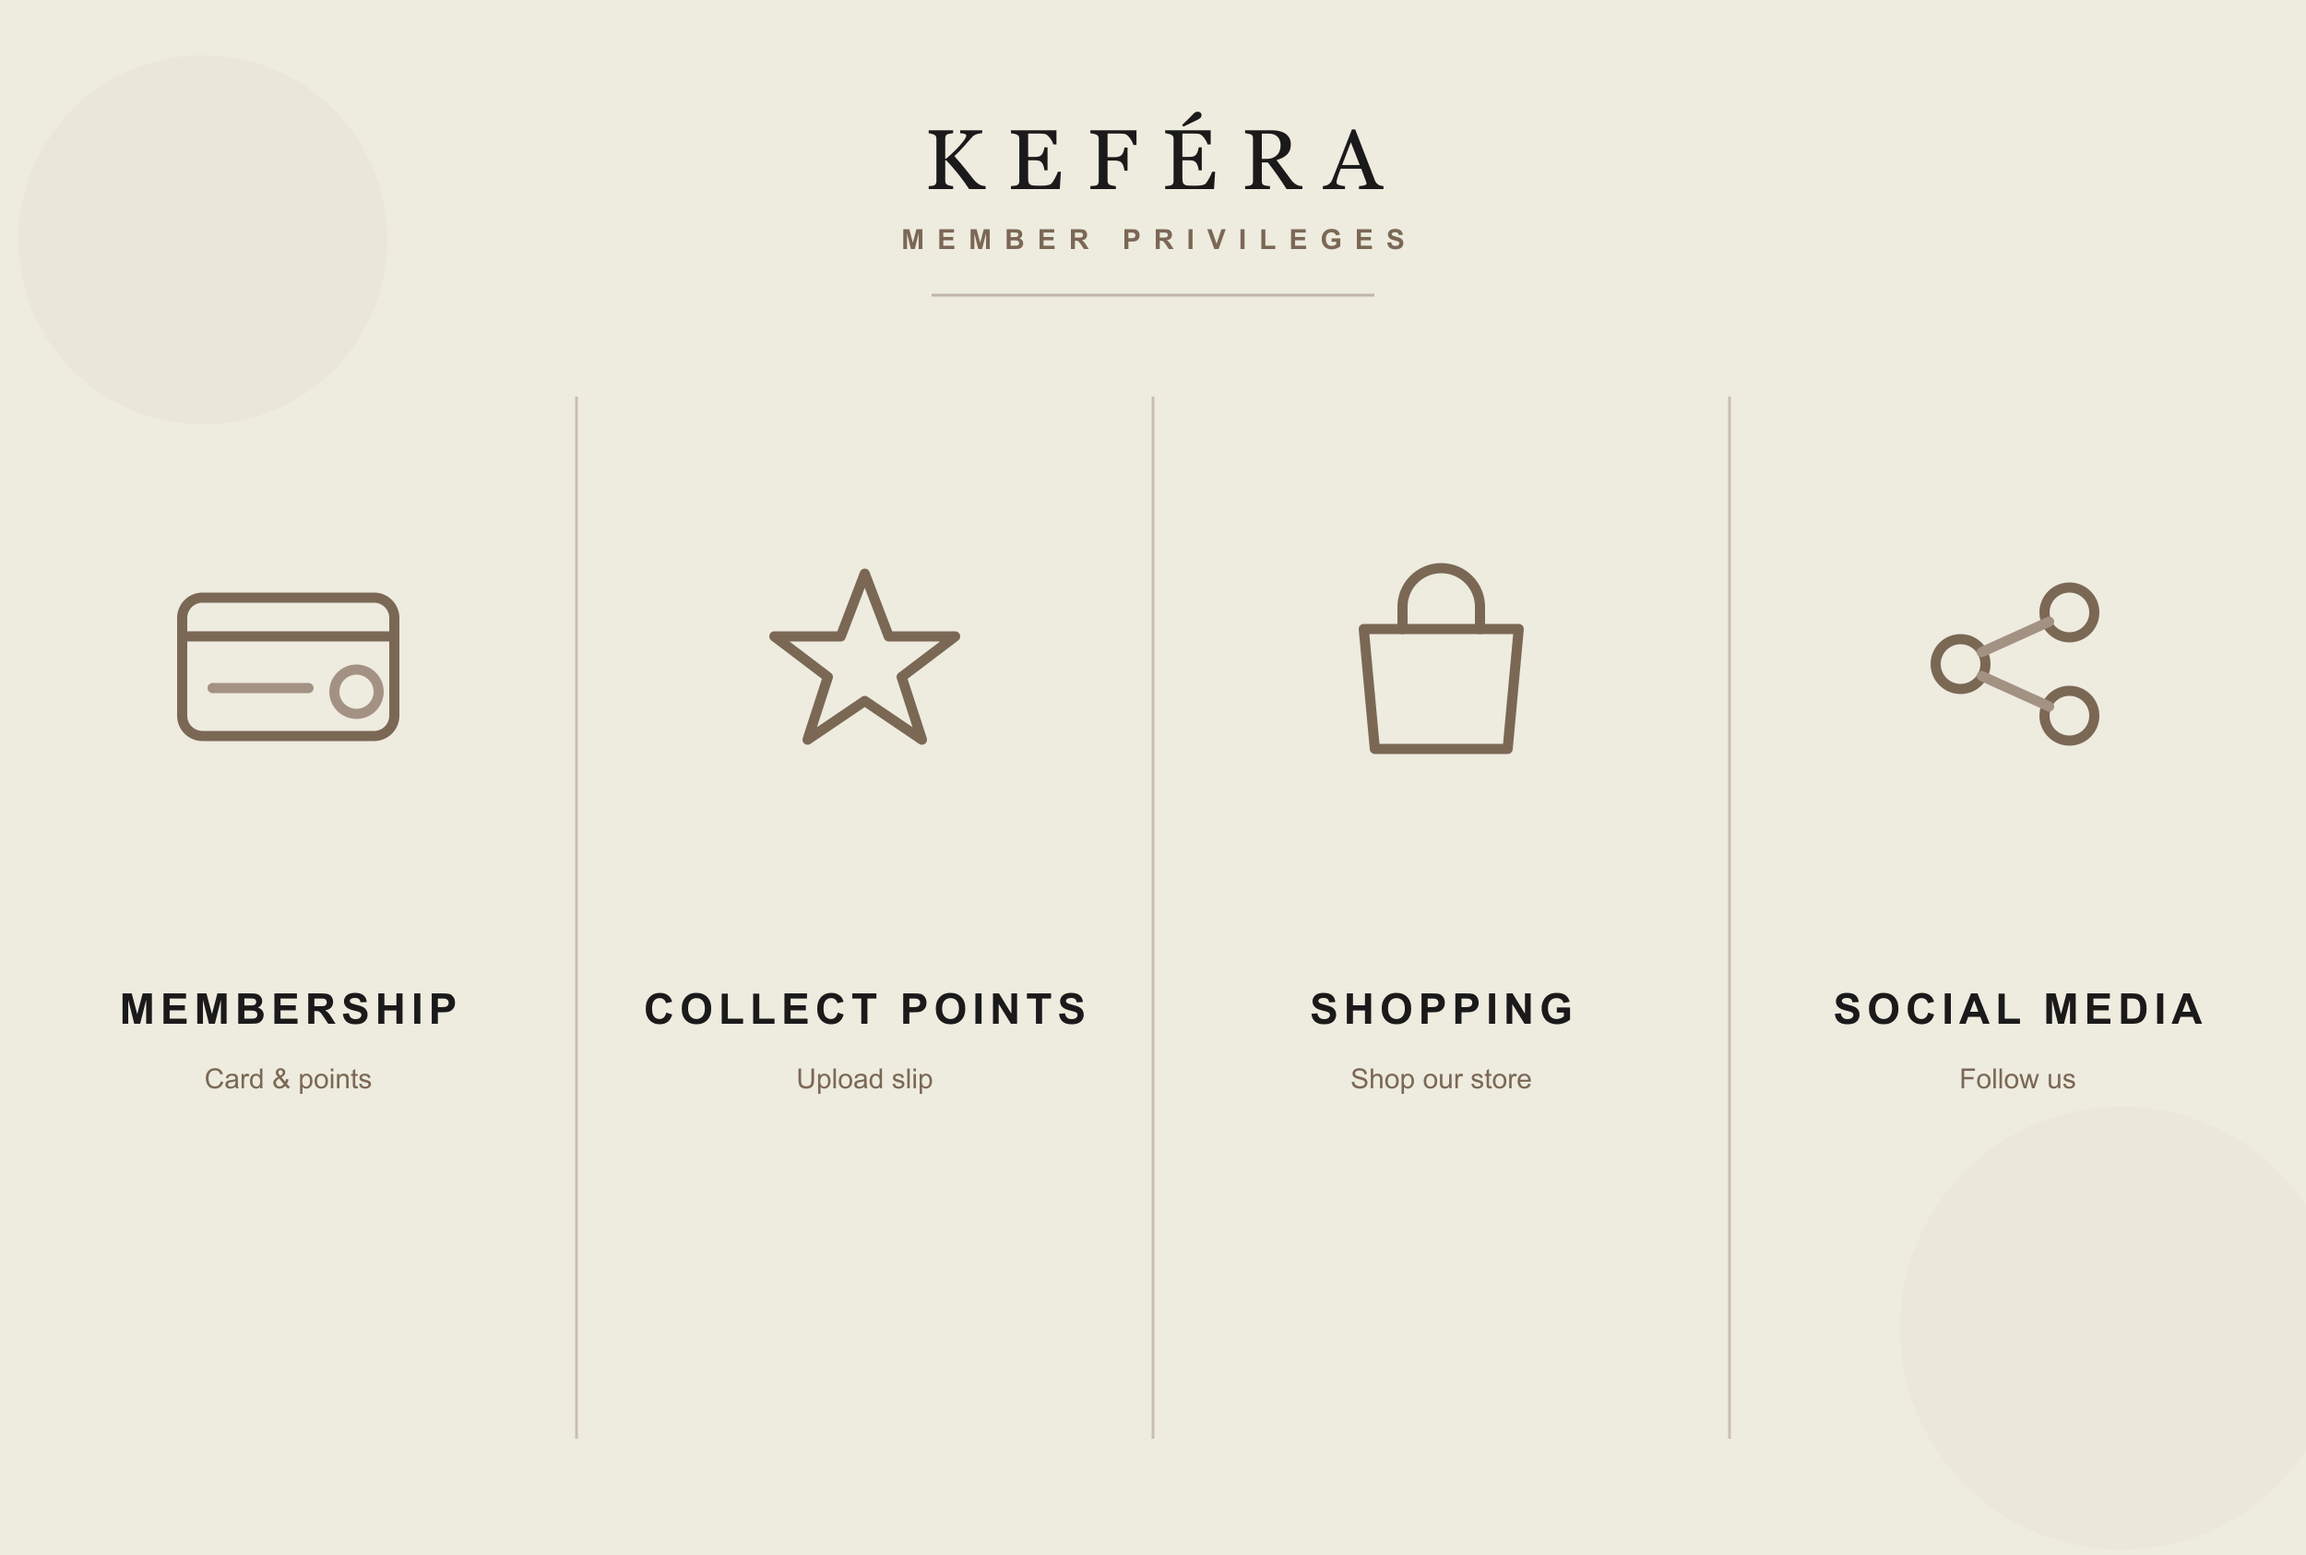
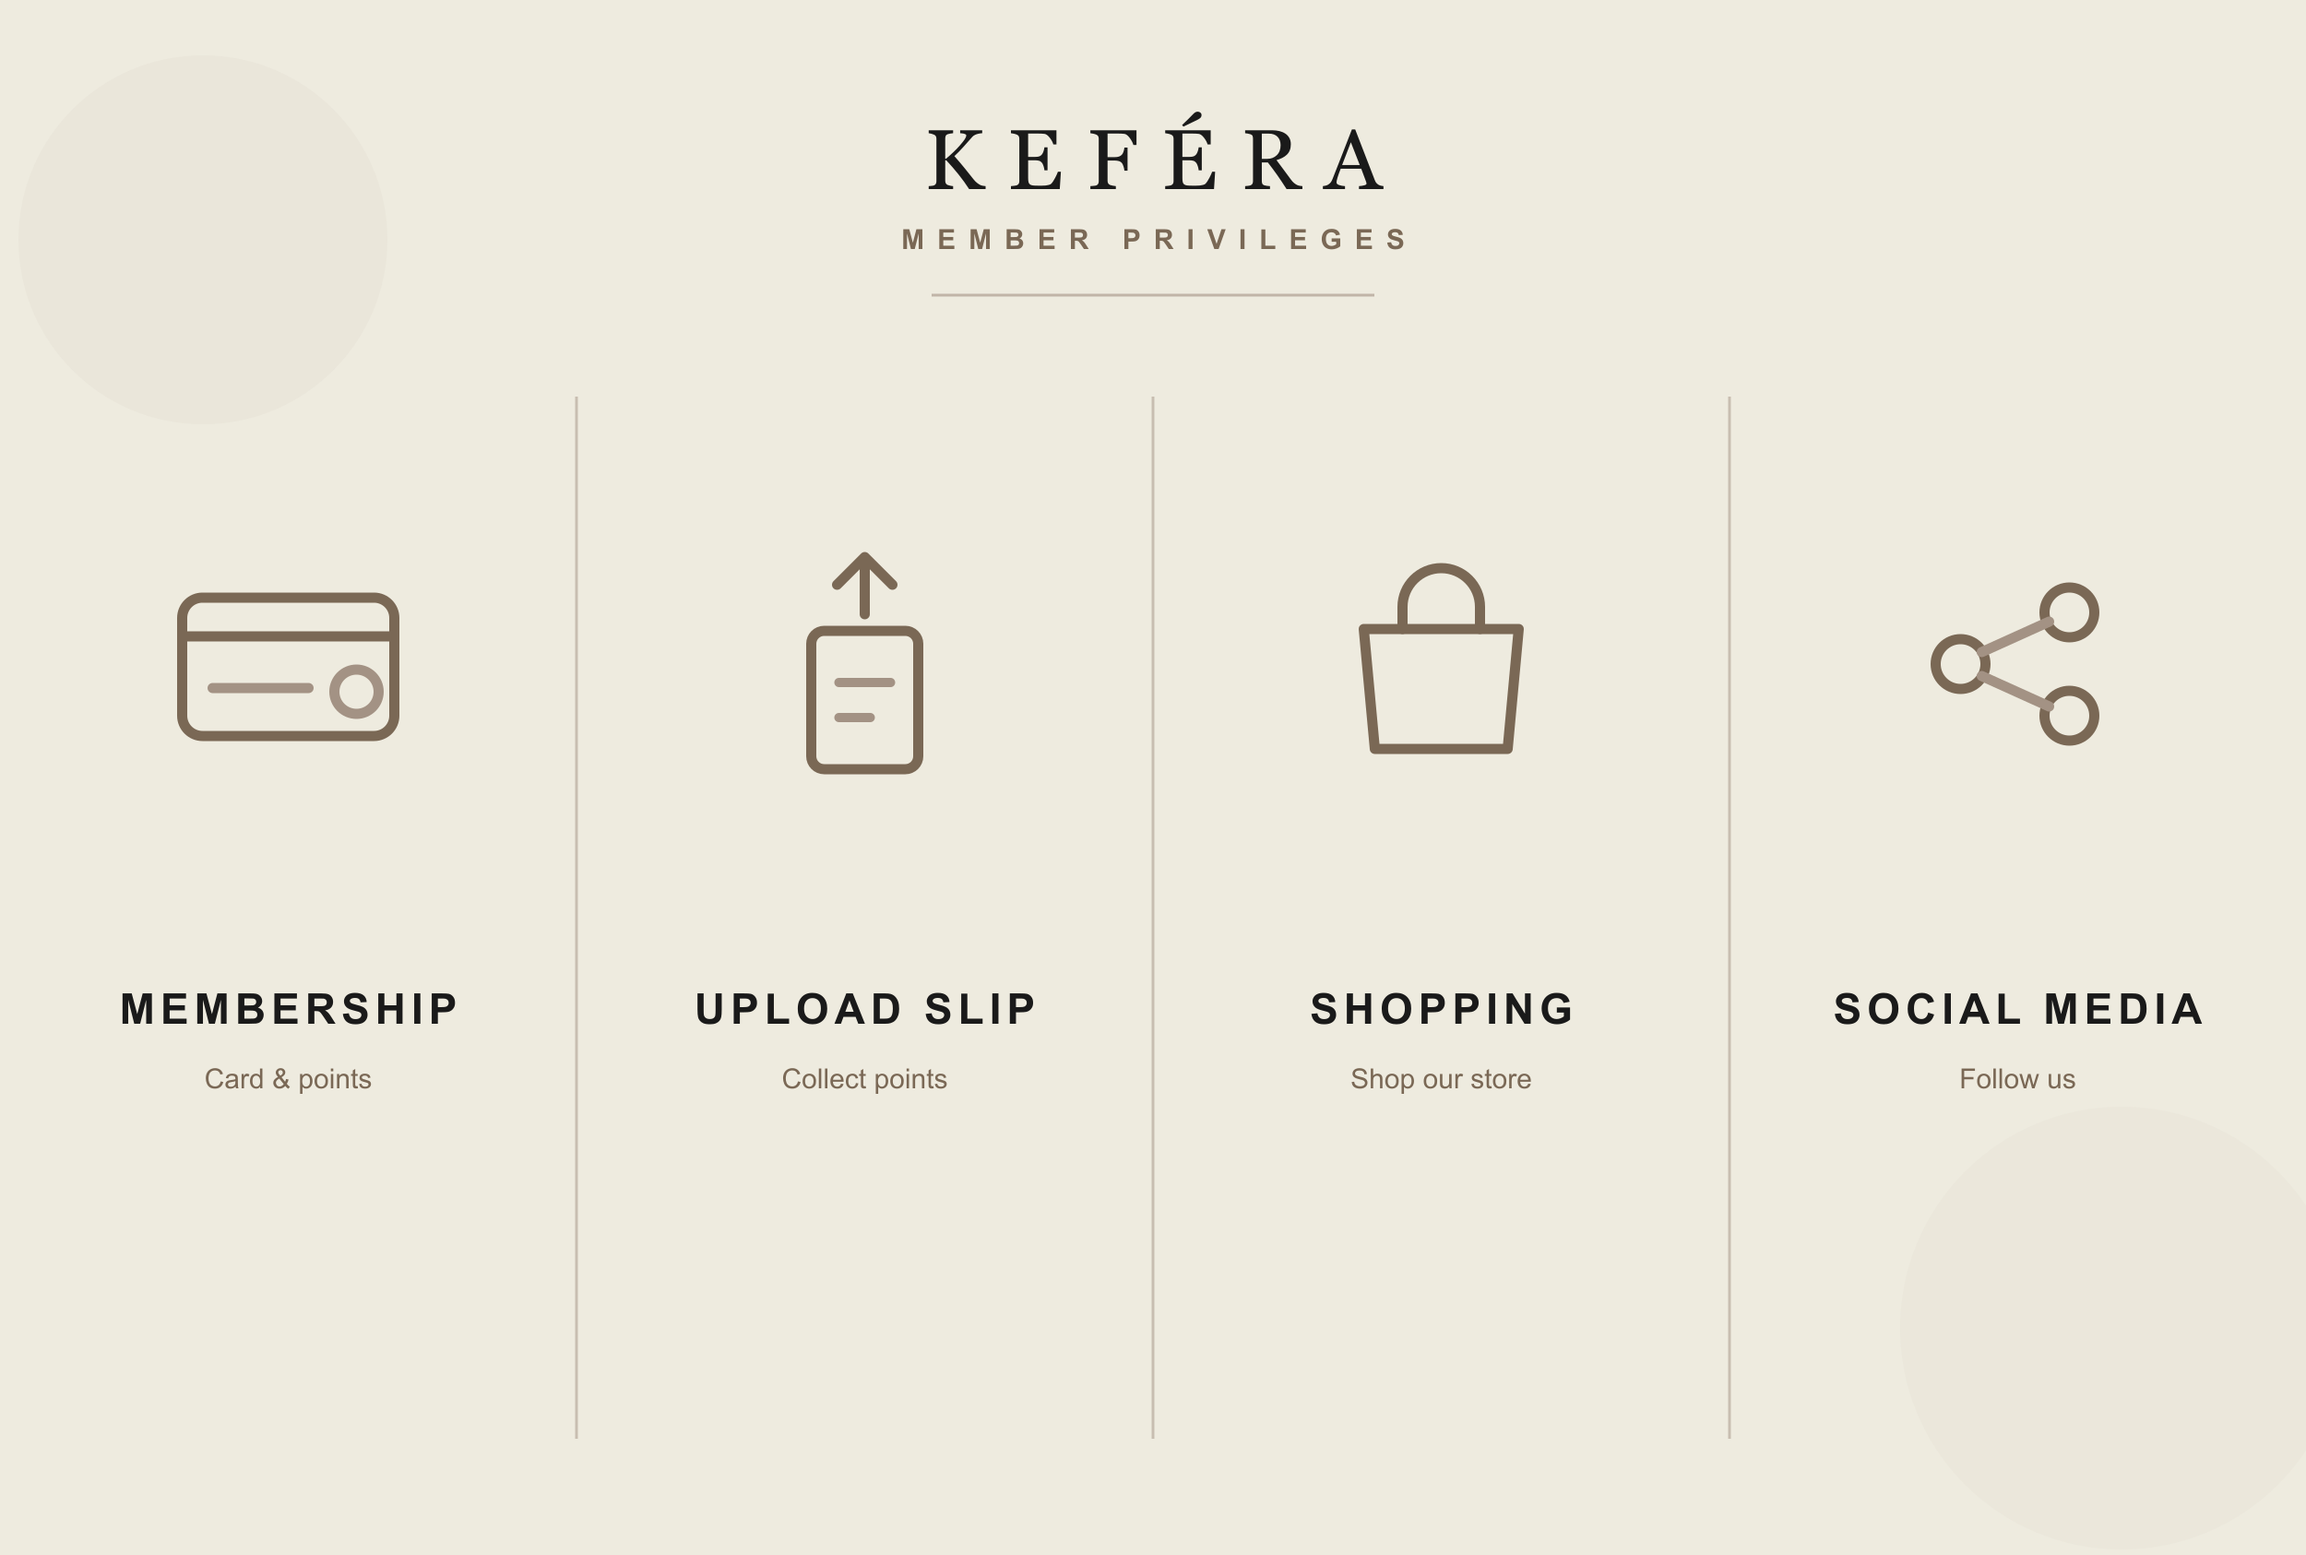
feat(kefera): rich menu Upload Slip tile + no-op Shopping/Social; harden LINE identity
- Rich menu: rename Collect Points -> Upload Slip with a document+up-arrow icon. Shopping & Social Media tiles remain in the image but have no tappable area (do nothing) until links are provided.

- Hub (LiffEntry): matching Upload Slip label + FileUp icon.

- Fix Member Card 'LINE ID not found': inside the LINE in-app browser, resolveLineUserId now falls through to getProfile() even when isLoggedIn() is false (previously returned an empty id).

Changed region(s): [[0.2808, 0.6168, 0.468, 0.7094], [0.312, 0.3701, 0.4368, 0.5243]]

diff --git a/scripts/line/create-richmenu.js b/scripts/line/create-richmenu.js
@@ -98,11 +98,12 @@ function buildActionUrl(route) {
 // ─── Rich Menu JSON ───────────────────────────────────
 // 2500 × 1686. KEFÉRA = 4 columns (Membership / Collect Points / Shopping / Social Media), in English.
 // DENE keeps its original 3-column layout (Register / Slip / Member).
+// Only Membership + Upload Slip are tappable for now. Shopping & Social Media tiles are shown in the
+// image but have NO area, so tapping them does nothing until real links are wired up (then add areas
+// here using SHOPPING_URL / SOCIAL_URL).
 const KEFERA_AREAS = [
-  { bounds: { x: 0,    y: 0, width: 625, height: 1686 }, action: { type: 'uri', label: 'Membership',    uri: buildActionUrl('/member') } },
-  { bounds: { x: 625,  y: 0, width: 625, height: 1686 }, action: { type: 'uri', label: 'Collect Points', uri: buildActionUrl('/slip') } },
-  { bounds: { x: 1250, y: 0, width: 625, height: 1686 }, action: { type: 'uri', label: 'Shopping',       uri: SHOPPING_URL } },
-  { bounds: { x: 1875, y: 0, width: 625, height: 1686 }, action: { type: 'uri', label: 'Social Media',   uri: SOCIAL_URL } },
+  { bounds: { x: 0,    y: 0, width: 625, height: 1686 }, action: { type: 'uri', label: 'Membership',  uri: buildActionUrl('/member') } },
+  { bounds: { x: 625,  y: 0, width: 625, height: 1686 }, action: { type: 'uri', label: 'Upload Slip', uri: buildActionUrl('/slip') } },
 ];
 const DENE_AREAS = [
   { bounds: { x: 0,    y: 0, width: 833, height: 1686 }, action: { type: 'uri', label: 'สมัครสมาชิก', uri: buildActionUrl('/register') } },
@@ -273,10 +274,10 @@ function buildKeferaRichMenuSvg() {
   const SANS = "'Helvetica Neue', Arial, sans-serif";
 
   const columns = [
-    { cx: 312.5,  label: 'MEMBERSHIP',     sub: 'Card &amp; points' },
-    { cx: 937.5,  label: 'COLLECT POINTS', sub: 'Upload slip' },
-    { cx: 1562.5, label: 'SHOPPING',       sub: 'Shop our store' },
-    { cx: 2187.5, label: 'SOCIAL MEDIA',   sub: 'Follow us' },
+    { cx: 312.5,  label: 'MEMBERSHIP',   sub: 'Card &amp; points' },
+    { cx: 937.5,  label: 'UPLOAD SLIP',  sub: 'Collect points' },
+    { cx: 1562.5, label: 'SHOPPING',     sub: 'Shop our store' },
+    { cx: 2187.5, label: 'SOCIAL MEDIA', sub: 'Follow us' },
   ];
 
   // Line icons drawn around their own origin (0,0); placed at each column center, y = 720.
@@ -287,8 +288,10 @@ function buildKeferaRichMenuSvg() {
       <line x1="-82" y1="26" x2="22" y2="26" stroke="${TAUPE}" stroke-width="11" stroke-linecap="round"/>
       <circle cx="74" cy="30" r="24" fill="none" stroke="${TAUPE}" stroke-width="11"/>`;
     if (i === 1) return `
-      <path d="M0,-98 L26,-30 L98,-30 L40,14 L62,82 L0,40 L-62,82 L-40,14 L-98,-30 L-26,-30 Z"
-        fill="none" stroke="${BROWN}" stroke-width="11" stroke-linejoin="round"/>`;
+      <rect x="-58" y="-36" width="116" height="150" rx="14" fill="none" stroke="${BROWN}" stroke-width="11"/>
+      <line x1="-28" y1="20" x2="28" y2="20" stroke="${TAUPE}" stroke-width="10" stroke-linecap="round"/>
+      <line x1="-28" y1="58" x2="6" y2="58" stroke="${TAUPE}" stroke-width="10" stroke-linecap="round"/>
+      <path d="M0 -54 V-114 M-30 -86 L0 -116 L30 -86" fill="none" stroke="${BROWN}" stroke-width="11" stroke-linecap="round" stroke-linejoin="round"/>`;
     if (i === 2) return `
       <path d="M-84 -38 H84 L72 92 H-72 Z" fill="none" stroke="${BROWN}" stroke-width="11" stroke-linejoin="round"/>
       <path d="M-42 -38 V-62 A42 42 0 0 1 42 -62 V-38" fill="none" stroke="${BROWN}" stroke-width="11" stroke-linecap="round"/>`;

diff --git a/src/lib/lineLiff.ts b/src/lib/lineLiff.ts
@@ -137,12 +137,13 @@ export async function resolveLineUserId(fallbackLineId = '') {
     return { lineId: contextUserId, isAuto: true };
   }
 
-  if (!liff.isLoggedIn()) {
-    if (!isLiffBrowser()) {
-      liff.login({ redirectUri: getLoginRedirectUri() });
-    }
+  // External browser & not logged in → kick off LINE login and come back.
+  if (!liff.isLoggedIn() && !isLiffBrowser()) {
+    liff.login({ redirectUri: getLoginRedirectUri() });
     return { lineId: fallback, isAuto: false };
   }
+  // Inside the LINE app the client session lets getProfile() work even when isLoggedIn() is false,
+  // so fall through and try it instead of returning an empty id (which showed "LINE ID not found").
 
   try {
     const profile = await liff.getProfile();

diff --git a/src/pages/liff/LiffEntry.tsx b/src/pages/liff/LiffEntry.tsx
@@ -1,5 +1,5 @@
 import { useEffect, useState } from 'react';
-import { Camera, CreditCard, Loader2, ShoppingBag, Share2 } from 'lucide-react';
+import { FileUp, CreditCard, Loader2, ShoppingBag, Share2 } from 'lucide-react';
 import LiffLayout from './LiffLayout';
 import { initializeLiff } from '../../lib/lineLiff';
 import { publicApi } from '../../api';
@@ -150,8 +150,8 @@ export default function LiffEntry() {
       loading: memberLookupLoading,
     },
     {
-      label: 'Collect Points',
-      icon: Camera,
+      label: 'Upload Slip',
+      icon: FileUp,
       href: buildCompanyPath('/liff/slip', company),
     },
     {
